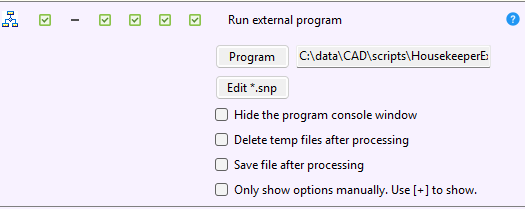
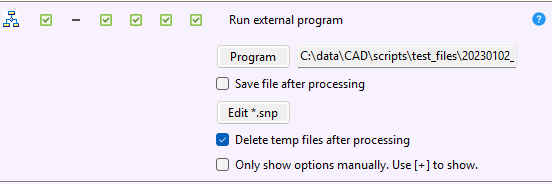
Documentation

diff --git a/HelpTopics.md b/HelpTopics.md
@@ -1249,7 +1249,11 @@ This command turns a typical single-file macro into a batch routine, also enhanc
 
 Select the program with the `Browse` button on the Options panel. Note, for downloaded programs, Windows sometimes sets a `Block` flag.  Before you run it the first time, you can right-click the executable and select `Properties`.  If it is blocked, there should be an option on the General Tab to `Unblock` it.  
 
-For PowerShell programs, `*.ps1`, you may need to change your security settings.  You can do so by opening a PowerShell command prompt.  Then issue the command `Set-ExecutionPolicy -ExecutionPolicy RemoteSigned -Scope CurrentUser`.  Here is a Microsoft [<ins>**link**</ins>](https://learn.microsoft.com/en-us/powershell/module/microsoft.powershell.core/about/about_execution_policies?view=powershell-7.5) with some details.  If you're not an expert on such matters, you might want to run it by your IT department first.  
+The file types `*.ps1` and `*.snp` are PowerShell scripts.  They are not normally run from an OS shell, but rather use an internal `dotnet` library.  The library is supposed to improve compatibility across varied system configurations.  
+
+To use the shell instead, enable `Use locally installed PowerShell` on the **Configuration Tab -- General Page**.  If that results in an error running the external program, you may need to change PowerShell's execution policy.  To do so, open a PowerShell command prompt, then issue the command:  
+`Set-ExecutionPolicy -ExecutionPolicy RemoteSigned -Scope CurrentUser`.  
+Here is a Microsoft [<ins>**link**</ins>](https://learn.microsoft.com/en-us/powershell/module/microsoft.powershell.core/about/about_execution_policies?view=powershell-7.5) with some details.  If you're not an expert on such matters, you might want to run it by your IT department first.  
 
 If you are writing your own program, be aware several interoperability rules apply.  See [<ins>**HousekeeperExternalPrograms**</ins>](https://github.com/rmcanany/HousekeeperExternalPrograms#readme) for details and examples. 
 
@@ -1259,7 +1263,7 @@ Unlike the other file types, a `*.snp` is a special file containing only a small
 
 The code snippet is just a text file written in VB.Net syntax.  It can be created in Notepad, or more conveniently in the expression editor.  Click `Edit *.snp` to use the editor.  
 
-The program inserts the snippet into a predefined PowerShell script.  The script has two sections that take care of the task's set-up and wrap-up, respectively. It has the same name and directory as the snippet file, except with a `.ps1` extension.  While it is a PowerShell script, it is not run in an OS shell.  Rather, it uses an internal dotnet library -- hopefully improving compatibility across varied system configurations.  
+The program inserts the snippet into a predefined PowerShell script.  The script has two sections that take care of the task's set-up and wrap-up, respectively. It has the same name and directory as the snippet file, except with a `.ps1` extension.  
 
 The intent is to address one-off automation chores, where the time to do the job manually can't justify the time needed to write, test, and maintain a separate program to do it automatically. 
 

diff --git a/README.md b/README.md
@@ -1249,7 +1249,11 @@ This command turns a typical single-file macro into a batch routine, also enhanc
 
 Select the program with the `Browse` button on the Options panel. Note, for downloaded programs, Windows sometimes sets a `Block` flag.  Before you run it the first time, you can right-click the executable and select `Properties`.  If it is blocked, there should be an option on the General Tab to `Unblock` it.  
 
-For PowerShell programs, `*.ps1`, you may need to change your security settings.  You can do so by opening a PowerShell command prompt.  Then issue the command `Set-ExecutionPolicy -ExecutionPolicy RemoteSigned -Scope CurrentUser`.  Here is a Microsoft [<ins>**link**</ins>](https://learn.microsoft.com/en-us/powershell/module/microsoft.powershell.core/about/about_execution_policies?view=powershell-7.5) with some details.  If you're not an expert on such matters, you might want to run it by your IT department first.  
+The file types `*.ps1` and `*.snp` are PowerShell scripts.  They are not normally run from an OS shell, but rather use an internal `dotnet` library.  The library is supposed to improve compatibility across varied system configurations.  
+
+To use the shell instead, enable `Use locally installed PowerShell` on the **Configuration Tab -- General Page**.  If that results in an error running the external program, you may need to change PowerShell's execution policy.  To do so, open a PowerShell command prompt, then issue the command:  
+`Set-ExecutionPolicy -ExecutionPolicy RemoteSigned -Scope CurrentUser`.  
+Here is a Microsoft [<ins>**link**</ins>](https://learn.microsoft.com/en-us/powershell/module/microsoft.powershell.core/about/about_execution_policies?view=powershell-7.5) with some details.  If you're not an expert on such matters, you might want to run it by your IT department first.  
 
 If you are writing your own program, be aware several interoperability rules apply.  See [<ins>**HousekeeperExternalPrograms**</ins>](https://github.com/rmcanany/HousekeeperExternalPrograms#readme) for details and examples. 
 
@@ -1259,7 +1263,7 @@ Unlike the other file types, a `*.snp` is a special file containing only a small
 
 The code snippet is just a text file written in VB.Net syntax.  It can be created in Notepad, or more conveniently in the expression editor.  Click `Edit *.snp` to use the editor.  
 
-The program inserts the snippet into a predefined PowerShell script.  The script has two sections that take care of the task's set-up and wrap-up, respectively. It has the same name and directory as the snippet file, except with a `.ps1` extension.  While it is a PowerShell script, it is not run in an OS shell.  Rather, it uses an internal dotnet library -- hopefully improving compatibility across varied system configurations.  
+The program inserts the snippet into a predefined PowerShell script.  The script has two sections that take care of the task's set-up and wrap-up, respectively. It has the same name and directory as the snippet file, except with a `.ps1` extension.  
 
 The intent is to address one-off automation chores, where the time to do the job manually can't justify the time needed to write, test, and maintain a separate program to do it automatically. 
 